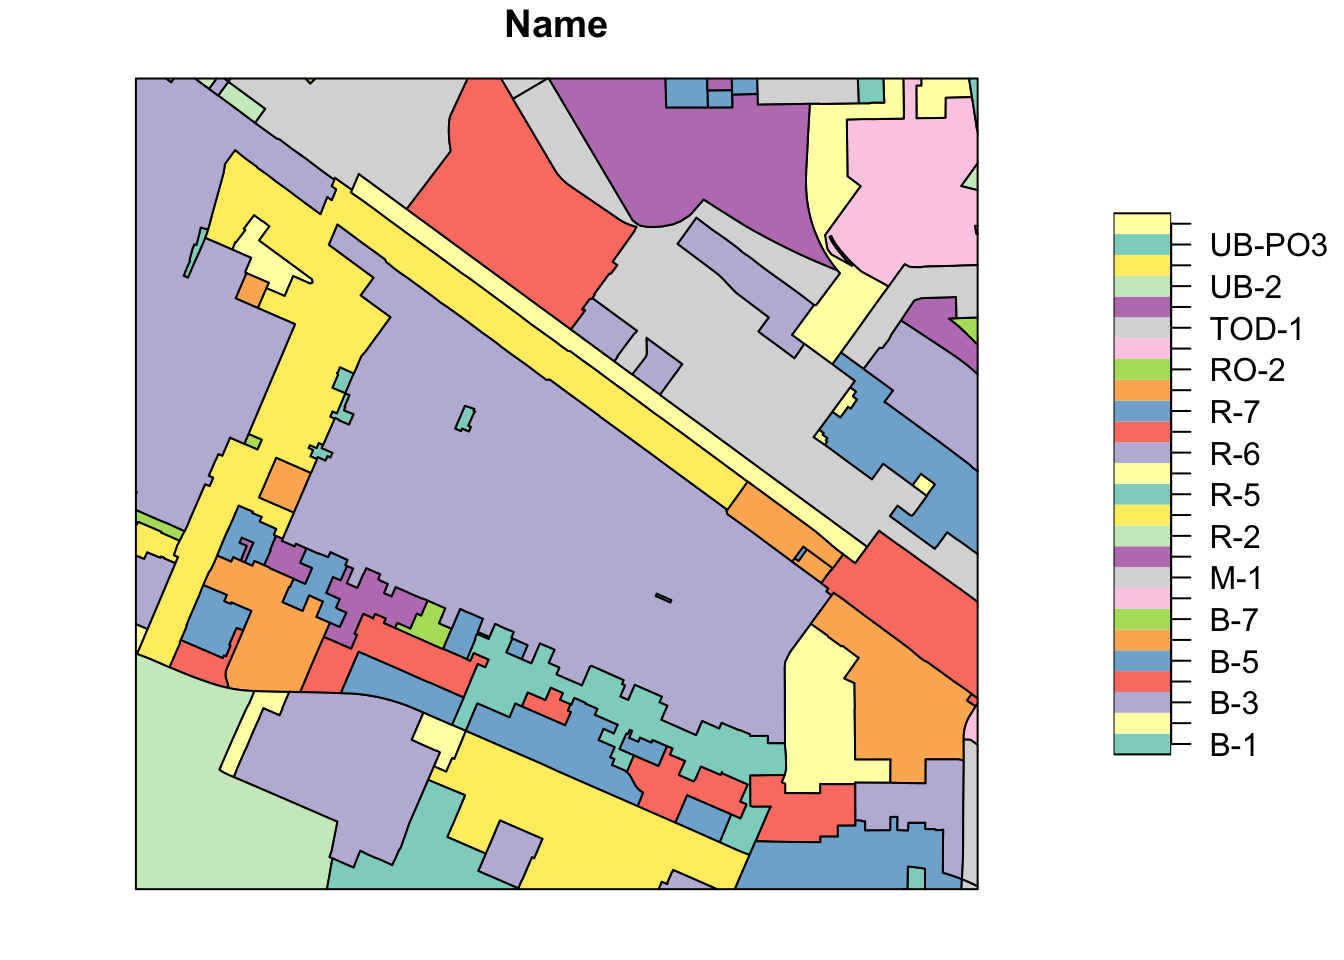
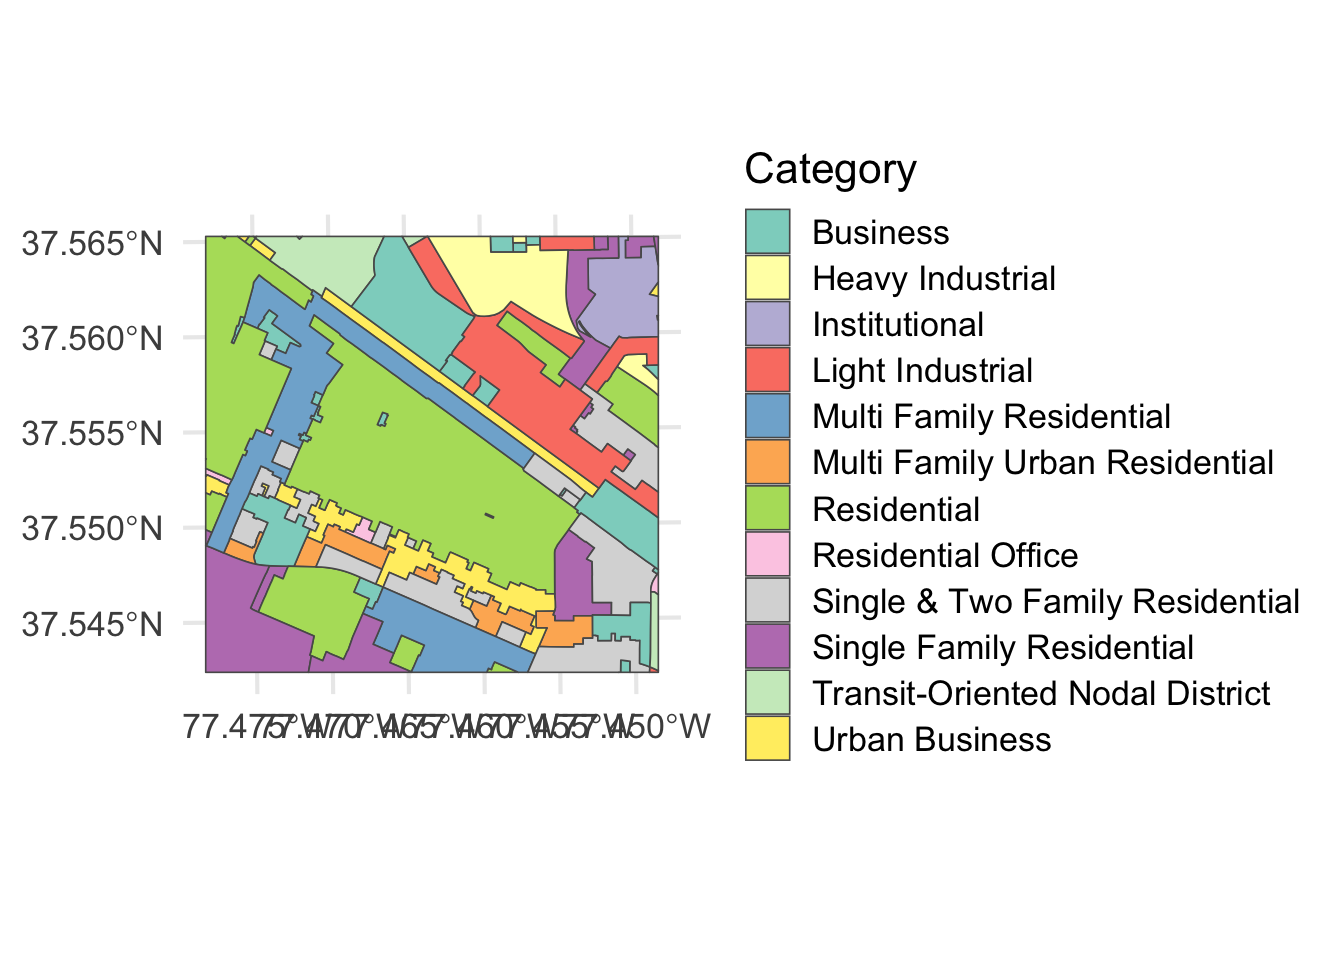
Migrate to module standards

diff --git a/docs/narrative.html b/docs/narrative.html
@@ -103,6 +103,9 @@ pre > code.sourceCode > span > a:first-child::before { text-decoration: underlin
 
 <div class="cell">
 <div class="cell-output cell-output-stderr">
+<pre><code>Warning: package 'sf' was built under R version 4.6.1</code></pre>
+</div>
+<div class="cell-output cell-output-stderr">
 <pre><code>Linking to GEOS 3.13.0, GDAL 3.8.5, PROJ 9.5.1; sf_use_s2() is TRUE</code></pre>
 </div>
 <div class="cell-output cell-output-stderr">
@@ -122,35 +125,38 @@ pre > code.sourceCode > span > a:first-child::before { text-decoration: underlin
 <h2 class="anchored" data-anchor-id="raw-data">Raw Data</h2>
 <p>The data for this are going to be represented by roads and development zones in Richmond, Virginia. These data are made available by the GIS Department of the City of Richmond. For this example, we will be loading these in as <em>shapefiles</em>.</p>
 <p>You can load in shapefile data directly into R but we have to do a little work. First, we should understand that <em>a shapefile</em> is not an actual file, it is a collection of several files. They are often zipped up into a single archive.</p>
-<p>Here are two shape file archives that I have up on Github in the class repository.</p>
+<p>There are two shapefile archives in the <code>data/</code> folder of this module: <code>Roads.zip</code> and <code>Districts.zip</code>. If you are working along on your own computer, you can download them from <a href="https://dyerlabteaching.github.io/Shapefiles/data/Roads.zip">Roads.zip</a> and <a href="https://dyerlabteaching.github.io/Shapefiles/data/Districts.zip">Districts.zip</a> and put them in a <code>data</code> folder in your project.</p>
+<p>Before we can use them, we need to unzip them. The <code>exdir</code> argument tells <code>unzip()</code> where to put the files. Here I expand them into a temporary folder (<code>tempdir()</code>) so the raw files do not clutter up the project, but you could just as easily use a folder in your project.</p>
 <div class="cell">
-<div class="code-copy-outer-scaffold"><div class="sourceCode cell-code" id="cb3"><pre class="sourceCode r code-with-copy"><code class="sourceCode r"><span id="cb3-1"><a href="#cb3-1" aria-hidden="true" tabindex="-1"></a>roads_url <span class="ot">&lt;-</span> <span class="st">"https://github.com/dyerlab/ENVS-Lectures/raw/master/data/Centerlines-shp.zip"</span></span>
-<span id="cb3-2"><a href="#cb3-2" aria-hidden="true" tabindex="-1"></a>district_url <span class="ot">&lt;-</span> <span class="st">"https://github.com/dyerlab/ENVS-Lectures/raw/master/data/Zoning_Districts-shp.zip"</span></span></code></pre></div><button title="Copy to Clipboard" class="code-copy-button"><i class="bi"></i></button></div>
+<div class="code-copy-outer-scaffold"><div class="sourceCode cell-code" id="cb4"><pre class="sourceCode r code-with-copy"><code class="sourceCode r"><span id="cb4-1"><a href="#cb4-1" aria-hidden="true" tabindex="-1"></a>shp_dir <span class="ot">&lt;-</span> <span class="fu">tempdir</span>()</span>
+<span id="cb4-2"><a href="#cb4-2" aria-hidden="true" tabindex="-1"></a><span class="fu">unzip</span>( <span class="st">"data/Roads.zip"</span>, <span class="at">exdir =</span> shp_dir )</span>
+<span id="cb4-3"><a href="#cb4-3" aria-hidden="true" tabindex="-1"></a><span class="fu">unzip</span>( <span class="st">"data/Districts.zip"</span>, <span class="at">exdir =</span> shp_dir )</span></code></pre></div><button title="Copy to Clipboard" class="code-copy-button"><i class="bi"></i></button></div>
 </div>
-<p>We can use <code>R</code> to download and unzip the file <em>in the current data directory</em> (n.b., you can do it using a browser as well). To use <code>R</code> you need to first download them (I’ve set <code>eval=FALSE</code> to the chunk so it is not redownloaded each time. Run it by hand using <code>CTRL/CMD + Return</code>).</p>
+<p>Depending upon how the archives were created, they may make a sub directory or just a pile of files in the same directory. For this example, there is one of each: the <em>Zoning_Districts.</em> set of files is expanded directly into the folder and the <em>Roads</em> are expanded into a subfolder named <em>Centerlines-shp</em>.</p>
 <div class="cell">
-<div class="code-copy-outer-scaffold"><div class="sourceCode cell-code" id="cb4"><pre class="sourceCode r code-with-copy"><code class="sourceCode r"><span id="cb4-1"><a href="#cb4-1" aria-hidden="true" tabindex="-1"></a><span class="fu">download.file</span>( district_url , <span class="at">destfile =</span> <span class="st">"./Districts.zip"</span>)</span>
-<span id="cb4-2"><a href="#cb4-2" aria-hidden="true" tabindex="-1"></a><span class="fu">download.file</span>( roads_url, <span class="at">destfile =</span>  <span class="st">"./Roads.zip"</span>)</span></code></pre></div><button title="Copy to Clipboard" class="code-copy-button"><i class="bi"></i></button></div>
+<div class="code-copy-outer-scaffold"><div class="sourceCode cell-code" id="cb5"><pre class="sourceCode r code-with-copy"><code class="sourceCode r"><span id="cb5-1"><a href="#cb5-1" aria-hidden="true" tabindex="-1"></a><span class="fu">list.files</span>( shp_dir, <span class="at">recursive =</span> <span class="cn">TRUE</span>, <span class="at">pattern =</span> <span class="st">"Zoning|tran_"</span> )</span></code></pre></div><button title="Copy to Clipboard" class="code-copy-button"><i class="bi"></i></button></div>
+<div class="cell-output cell-output-stdout">
+<pre><code> [1] "Centerlines-shp/tran_Carriageway.cpg"
+ [2] "Centerlines-shp/tran_Carriageway.dbf"
+ [3] "Centerlines-shp/tran_Carriageway.prj"
+ [4] "Centerlines-shp/tran_Carriageway.shp"
+ [5] "Centerlines-shp/tran_Carriageway.shx"
+ [6] "Zoning_Districts.cpg"                
+ [7] "Zoning_Districts.dbf"                
+ [8] "Zoning_Districts.prj"                
+ [9] "Zoning_Districts.shp"                
+[10] "Zoning_Districts.shx"                </code></pre>
 </div>
-<p>We can unzip them now as:</p>
-<div class="cell">
-<div class="code-copy-outer-scaffold"><div class="sourceCode cell-code" id="cb5"><pre class="sourceCode r code-with-copy"><code class="sourceCode r"><span id="cb5-1"><a href="#cb5-1" aria-hidden="true" tabindex="-1"></a><span class="fu">unzip</span>(<span class="st">"Districts.zip"</span>)</span>
-<span id="cb5-2"><a href="#cb5-2" aria-hidden="true" tabindex="-1"></a><span class="fu">unzip</span>(<span class="st">"Roads.zip"</span>)</span></code></pre></div><button title="Copy to Clipboard" class="code-copy-button"><i class="bi"></i></button></div>
-</div>
-<p>These routines will expand the archives in the current directory.</p>
-<p>Depending upon how the archives were created, they may make a sub directory or just a pile of files in the same directory. For this example, there are one of each with the <em>Zoning_Districts.</em> set of files expanded in the current directory and the <em>Roads</em> expanded to a subfolder named <em>Centerlines-shp</em>.</p>
-<div class="cell">
-<div class="code-copy-outer-scaffold"><div class="sourceCode cell-code" id="cb6"><pre class="sourceCode r code-with-copy"><code class="sourceCode r"><span id="cb6-1"><a href="#cb6-1" aria-hidden="true" tabindex="-1"></a><span class="fu">system</span>( <span class="st">"ls"</span> )</span></code></pre></div><button title="Copy to Clipboard" class="code-copy-button"><i class="bi"></i></button></div>
 </div>
 </section>
 <section id="lines" class="level2">
 <h2 class="anchored" data-anchor-id="lines">Lines</h2>
 <p>We’ve covered <a href="https://dyerlabteaching.github.io/Spatial-Points/slides.html#/title-slide">points</a> and now if we put them together in a sequence, we get lines. They are taken in the order given, just like when we were plotting polygons using <code>geom_polygon()</code>. Instead of loading these in manually, I’m going to load in the shapefile with the roads. To load in shapefiles, we use the <code>st_read()</code> function and pass it the .shp file.</p>
 <div class="cell">
-<div class="code-copy-outer-scaffold"><div class="sourceCode cell-code" id="cb7"><pre class="sourceCode r code-with-copy"><code class="sourceCode r"><span id="cb7-1"><a href="#cb7-1" aria-hidden="true" tabindex="-1"></a>roads <span class="ot">&lt;-</span> <span class="fu">st_read</span>( <span class="st">"Centerlines-shp/tran_Carriageway.shp"</span> ) </span></code></pre></div><button title="Copy to Clipboard" class="code-copy-button"><i class="bi"></i></button></div>
+<div class="code-copy-outer-scaffold"><div class="sourceCode cell-code" id="cb7"><pre class="sourceCode r code-with-copy"><code class="sourceCode r"><span id="cb7-1"><a href="#cb7-1" aria-hidden="true" tabindex="-1"></a>roads <span class="ot">&lt;-</span> <span class="fu">st_read</span>( <span class="fu">file.path</span>( shp_dir, <span class="st">"Centerlines-shp/tran_Carriageway.shp"</span> ) )</span></code></pre></div><button title="Copy to Clipboard" class="code-copy-button"><i class="bi"></i></button></div>
 <div class="cell-output cell-output-stdout">
 <pre><code>Reading layer `tran_Carriageway' from data source 
-  `/Users/rodney/Courses/Modules/Shapefiles/Centerlines-shp/tran_Carriageway.shp' 
+  `/private/var/folders/57/_81c61111l10c9c_pt_bb7y80000gn/T/RtmpqnUd6U/Centerlines-shp/tran_Carriageway.shp' 
   using driver `ESRI Shapefile'
 Simple feature collection with 29081 features and 25 fields
 Geometry type: LINESTRING
@@ -325,7 +331,7 @@ First 10 features:
 <div class="cell-output-display">
 <div>
 <figure class="figure">
-<p><img src="narrative_files/figure-html/unnamed-chunk-10-1.png" class="img-fluid figure-img" width="672"></p>
+<p><img src="narrative_files/figure-html/unnamed-chunk-8-1.png" class="img-fluid figure-img" width="672"></p>
 </figure>
 </div>
 </div>
@@ -338,7 +344,7 @@ First 10 features:
 <div class="cell-output-display">
 <div>
 <figure class="figure">
-<p><img src="narrative_files/figure-html/unnamed-chunk-11-1.png" class="img-fluid figure-img" width="672"></p>
+<p><img src="narrative_files/figure-html/unnamed-chunk-9-1.png" class="img-fluid figure-img" width="672"></p>
 </figure>
 </div>
 </div>
@@ -385,7 +391,7 @@ Attaching package: 'maps'</code></pre>
 <div class="cell-output-display">
 <div>
 <figure class="figure">
-<p><img src="narrative_files/figure-html/unnamed-chunk-13-1.png" class="img-fluid figure-img" width="672"></p>
+<p><img src="narrative_files/figure-html/unnamed-chunk-11-1.png" class="img-fluid figure-img" width="672"></p>
 </figure>
 </div>
 </div>
@@ -404,7 +410,7 @@ Attaching package: 'maps'</code></pre>
 <div class="cell-output-display">
 <div>
 <figure class="figure">
-<p><img src="narrative_files/figure-html/unnamed-chunk-14-1.png" class="img-fluid figure-img" width="672"></p>
+<p><img src="narrative_files/figure-html/unnamed-chunk-12-1.png" class="img-fluid figure-img" width="672"></p>
 </figure>
 </div>
 </div>
@@ -421,7 +427,7 @@ Attaching package: 'maps'</code></pre>
 <div class="cell-output-display">
 <div>
 <figure class="figure">
-<p><img src="narrative_files/figure-html/unnamed-chunk-15-1.png" class="img-fluid figure-img" width="672"></p>
+<p><img src="narrative_files/figure-html/unnamed-chunk-13-1.png" class="img-fluid figure-img" width="672"></p>
 </figure>
 </div>
 </div>
@@ -430,20 +436,20 @@ Attaching package: 'maps'</code></pre>
 </section>
 <section id="polygons-from-shapefiles" class="level3">
 <h3 class="anchored" data-anchor-id="polygons-from-shapefiles">Polygons from Shapefiles</h3>
-<p>We can also load these in from shapefiles. In the Richmond GIS data, we have Zoning District data. We can unzip them in the current directory as before.</p>
+<p>We can also load these in from shapefiles. In the Richmond GIS data, we have Zoning District data, which we unzipped above. In this case, the archive simply expanded into a set of files named <code>Zoning_Districts.*</code>.</p>
 <div class="cell">
-<div class="code-copy-outer-scaffold"><div class="sourceCode cell-code" id="cb28"><pre class="sourceCode r code-with-copy"><code class="sourceCode r"><span id="cb28-1"><a href="#cb28-1" aria-hidden="true" tabindex="-1"></a><span class="fu">unzip</span>( <span class="st">"./Districts.zip"</span>)</span></code></pre></div><button title="Copy to Clipboard" class="code-copy-button"><i class="bi"></i></button></div>
+<div class="code-copy-outer-scaffold"><div class="sourceCode cell-code" id="cb28"><pre class="sourceCode r code-with-copy"><code class="sourceCode r"><span id="cb28-1"><a href="#cb28-1" aria-hidden="true" tabindex="-1"></a><span class="fu">list.files</span>( shp_dir, <span class="at">pattern =</span> <span class="st">"^Zoning_Districts"</span> )</span></code></pre></div><button title="Copy to Clipboard" class="code-copy-button"><i class="bi"></i></button></div>
+<div class="cell-output cell-output-stdout">
+<pre><code>[1] "Zoning_Districts.cpg" "Zoning_Districts.dbf" "Zoning_Districts.prj"
+[4] "Zoning_Districts.shp" "Zoning_Districts.shx"</code></pre>
 </div>
-<p>And in this case, it simply expands all the files in the current directory as a set of files named <code>Zoning_Districts.*</code>.</p>
-<div class="cell">
-<div class="code-copy-outer-scaffold"><div class="sourceCode cell-code" id="cb29"><pre class="sourceCode r code-with-copy"><code class="sourceCode r"><span id="cb29-1"><a href="#cb29-1" aria-hidden="true" tabindex="-1"></a><span class="fu">system</span>(<span class="st">"ls -al Zoning*"</span>)</span></code></pre></div><button title="Copy to Clipboard" class="code-copy-button"><i class="bi"></i></button></div>
 </div>
-<p>To load it in, we read the shapefile (.shp) from the local directory.</p>
+<p>To load it in, we read the shapefile (.shp) from that folder.</p>
 <div class="cell">
-<div class="code-copy-outer-scaffold"><div class="sourceCode cell-code" id="cb30"><pre class="sourceCode r code-with-copy"><code class="sourceCode r"><span id="cb30-1"><a href="#cb30-1" aria-hidden="true" tabindex="-1"></a>districts <span class="ot">&lt;-</span> <span class="fu">st_read</span>( <span class="st">"Zoning_Districts.shp"</span> )</span></code></pre></div><button title="Copy to Clipboard" class="code-copy-button"><i class="bi"></i></button></div>
+<div class="code-copy-outer-scaffold"><div class="sourceCode cell-code" id="cb30"><pre class="sourceCode r code-with-copy"><code class="sourceCode r"><span id="cb30-1"><a href="#cb30-1" aria-hidden="true" tabindex="-1"></a>districts <span class="ot">&lt;-</span> <span class="fu">st_read</span>( <span class="fu">file.path</span>( shp_dir, <span class="st">"Zoning_Districts.shp"</span> ) )</span></code></pre></div><button title="Copy to Clipboard" class="code-copy-button"><i class="bi"></i></button></div>
 <div class="cell-output cell-output-stdout">
 <pre><code>Reading layer `Zoning_Districts' from data source 
-  `/Users/rodney/Courses/Modules/Shapefiles/Zoning_Districts.shp' 
+  `/private/var/folders/57/_81c61111l10c9c_pt_bb7y80000gn/T/RtmpqnUd6U/Zoning_Districts.shp' 
   using driver `ESRI Shapefile'
 Simple feature collection with 634 features and 14 fields
 Geometry type: MULTIPOLYGON
@@ -527,7 +533,7 @@ Projected CRS: NAD83 / Virginia South (ftUS)
 <div class="cell-output-display">
 <div>
 <figure class="figure">
-<p><img src="narrative_files/figure-html/unnamed-chunk-22-1.png" class="img-fluid figure-img" width="672"></p>
+<p><img src="narrative_files/figure-html/unnamed-chunk-19-1.png" class="img-fluid figure-img" width="672"></p>
 </figure>
 </div>
 </div>
@@ -581,7 +587,7 @@ all geometries</code></pre>
 <div class="cell-output-display">
 <div>
 <figure class="figure">
-<p><img src="narrative_files/figure-html/unnamed-chunk-24-1.png" class="img-fluid figure-img" width="672"></p>
+<p><img src="narrative_files/figure-html/unnamed-chunk-21-1.png" class="img-fluid figure-img" width="672"></p>
 </figure>
 </div>
 </div>
@@ -594,22 +600,21 @@ all geometries</code></pre>
 <div class="cell-output-display">
 <div>
 <figure class="figure">
-<p><img src="narrative_files/figure-html/unnamed-chunk-25-1.png" class="img-fluid figure-img" width="672"></p>
+<p><img src="narrative_files/figure-html/unnamed-chunk-22-1.png" class="img-fluid figure-img" width="672"></p>
 </figure>
 </div>
 </div>
 </div>
-<p>Let’s go grab a key to those zoning types. I’ve uploaded a csv file with a translation. Here I <code>left_join()</code> with that new file that is read in dynamically<a href="#fn2" class="footnote-ref" id="fnref2" role="doc-noteref"><sup>2</sup></a>.</p>
+<p>Let’s go grab a key to those zoning types. There is a csv file with a translation in the <code>data/</code> folder. Here I <code>left_join()</code> with that file as I read it in<a href="#fn2" class="footnote-ref" id="fnref2" role="doc-noteref"><sup>2</sup></a>.</p>
 <div class="cell">
-<div class="code-copy-outer-scaffold"><div class="sourceCode cell-code" id="cb47"><pre class="sourceCode r code-with-copy"><code class="sourceCode r"><span id="cb47-1"><a href="#cb47-1" aria-hidden="true" tabindex="-1"></a>zone_url <span class="ot">&lt;-</span> <span class="st">"https://raw.githubusercontent.com/dyerlab/ENVS-Lectures/master/data/DistrictCodes.csv"</span></span>
-<span id="cb47-2"><a href="#cb47-2" aria-hidden="true" tabindex="-1"></a>theFan <span class="sc">%&gt;%</span></span>
-<span id="cb47-3"><a href="#cb47-3" aria-hidden="true" tabindex="-1"></a>  <span class="fu">left_join</span>( <span class="fu">read_csv</span>( zone_url ),</span>
-<span id="cb47-4"><a href="#cb47-4" aria-hidden="true" tabindex="-1"></a>             <span class="at">by=</span><span class="st">"Name"</span>) <span class="sc">%&gt;%</span></span>
-<span id="cb47-5"><a href="#cb47-5" aria-hidden="true" tabindex="-1"></a>  <span class="fu">mutate</span>( <span class="at">Category =</span> <span class="fu">factor</span>( Category) ) <span class="sc">%&gt;%</span></span>
-<span id="cb47-6"><a href="#cb47-6" aria-hidden="true" tabindex="-1"></a>  <span class="fu">select</span>( OBJECTID, </span>
-<span id="cb47-7"><a href="#cb47-7" aria-hidden="true" tabindex="-1"></a>          Name, </span>
-<span id="cb47-8"><a href="#cb47-8" aria-hidden="true" tabindex="-1"></a>          Category, </span>
-<span id="cb47-9"><a href="#cb47-9" aria-hidden="true" tabindex="-1"></a>          <span class="fu">everything</span>() )  <span class="ot">-&gt;</span> theFan</span></code></pre></div><button title="Copy to Clipboard" class="code-copy-button"><i class="bi"></i></button></div>
+<div class="code-copy-outer-scaffold"><div class="sourceCode cell-code" id="cb47"><pre class="sourceCode r code-with-copy"><code class="sourceCode r"><span id="cb47-1"><a href="#cb47-1" aria-hidden="true" tabindex="-1"></a>theFan <span class="sc">%&gt;%</span></span>
+<span id="cb47-2"><a href="#cb47-2" aria-hidden="true" tabindex="-1"></a>  <span class="fu">left_join</span>( <span class="fu">read_csv</span>( <span class="st">"data/DistrictCodes.csv"</span> ),</span>
+<span id="cb47-3"><a href="#cb47-3" aria-hidden="true" tabindex="-1"></a>             <span class="at">by=</span><span class="st">"Name"</span>) <span class="sc">%&gt;%</span></span>
+<span id="cb47-4"><a href="#cb47-4" aria-hidden="true" tabindex="-1"></a>  <span class="fu">mutate</span>( <span class="at">Category =</span> <span class="fu">factor</span>( Category) ) <span class="sc">%&gt;%</span></span>
+<span id="cb47-5"><a href="#cb47-5" aria-hidden="true" tabindex="-1"></a>  <span class="fu">select</span>( OBJECTID, </span>
+<span id="cb47-6"><a href="#cb47-6" aria-hidden="true" tabindex="-1"></a>          Name, </span>
+<span id="cb47-7"><a href="#cb47-7" aria-hidden="true" tabindex="-1"></a>          Category, </span>
+<span id="cb47-8"><a href="#cb47-8" aria-hidden="true" tabindex="-1"></a>          <span class="fu">everything</span>() )  <span class="ot">-&gt;</span> theFan</span></code></pre></div><button title="Copy to Clipboard" class="code-copy-button"><i class="bi"></i></button></div>
 <div class="cell-output cell-output-stderr">
 <pre><code>Rows: 27 Columns: 2
 ── Column specification ────────────────────────────────────────────────────────
@@ -628,7 +633,7 @@ chr (2): Name, Category
 <div class="cell-output-display">
 <div>
 <figure class="figure">
-<p><img src="narrative_files/figure-html/unnamed-chunk-27-1.png" class="img-fluid figure-img" width="672"></p>
+<p><img src="narrative_files/figure-html/unnamed-chunk-24-1.png" class="img-fluid figure-img" width="672"></p>
 </figure>
 </div>
 </div>
@@ -667,7 +672,7 @@ all geometries</code></pre>
 <div class="cell-output-display">
 <div>
 <figure class="figure">
-<p><img src="narrative_files/figure-html/unnamed-chunk-29-1.png" class="img-fluid figure-img" width="672"></p>
+<p><img src="narrative_files/figure-html/unnamed-chunk-26-1.png" class="img-fluid figure-img" width="672"></p>
 </figure>
 </div>
 </div>
@@ -686,7 +691,7 @@ all geometries</code></pre>
 <div class="cell-output-display">
 <div>
 <figure class="figure">
-<p><img src="narrative_files/figure-html/unnamed-chunk-30-1.png" class="img-fluid figure-img" width="672"></p>
+<p><img src="narrative_files/figure-html/unnamed-chunk-27-1.png" class="img-fluid figure-img" width="672"></p>
 </figure>
 </div>
 </div>
@@ -788,7 +793,7 @@ dplyr 1.1.0.
 <div class="cell-output-display">
 <div>
 <figure class="figure">
-<p><img src="narrative_files/figure-html/unnamed-chunk-35-1.png" class="img-fluid figure-img" width="672"></p>
+<p><img src="narrative_files/figure-html/unnamed-chunk-32-1.png" class="img-fluid figure-img" width="672"></p>
 </figure>
 </div>
 </div>
